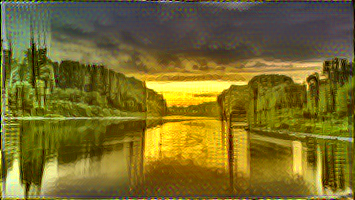
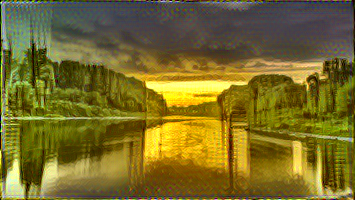
second commit

diff --git a/INetwork.py b/INetwork.py
@@ -31,7 +31,7 @@ style_weights = [1.0]
 img_size = 200
 content_weight = 0.001
 total_variation_weight = 8.5e-5
-num_iter = 10
+num_iter = 30
 output_path = './results'
 device_type = '/cpu:0'
 
